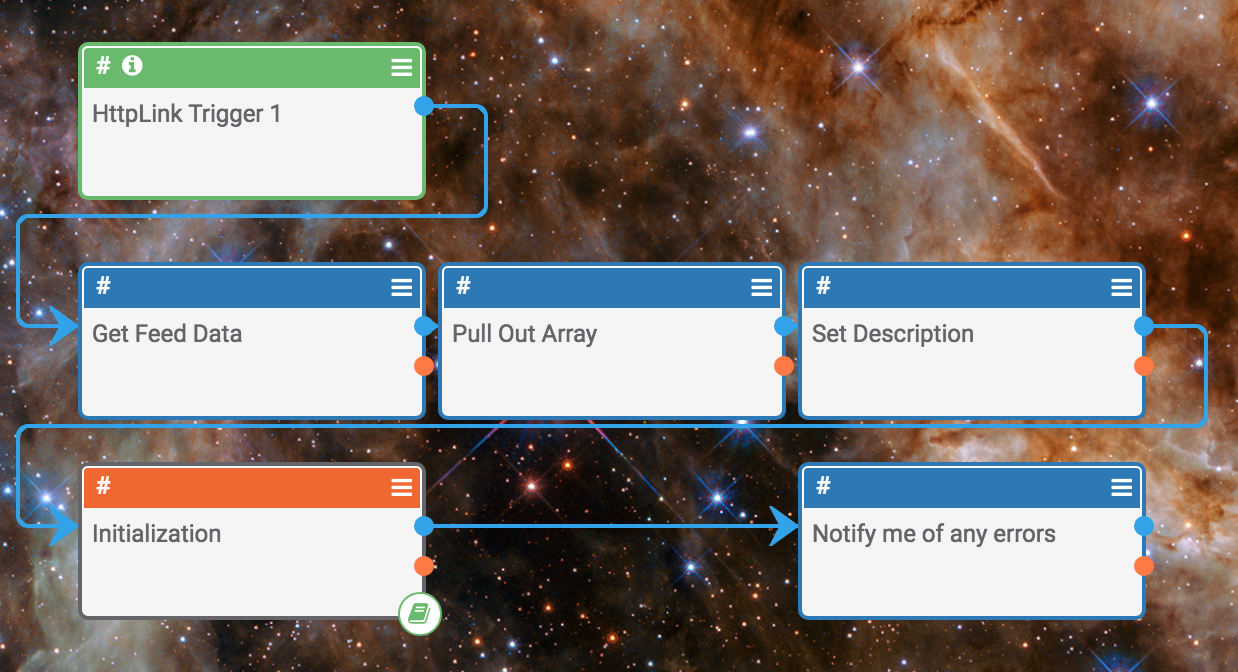
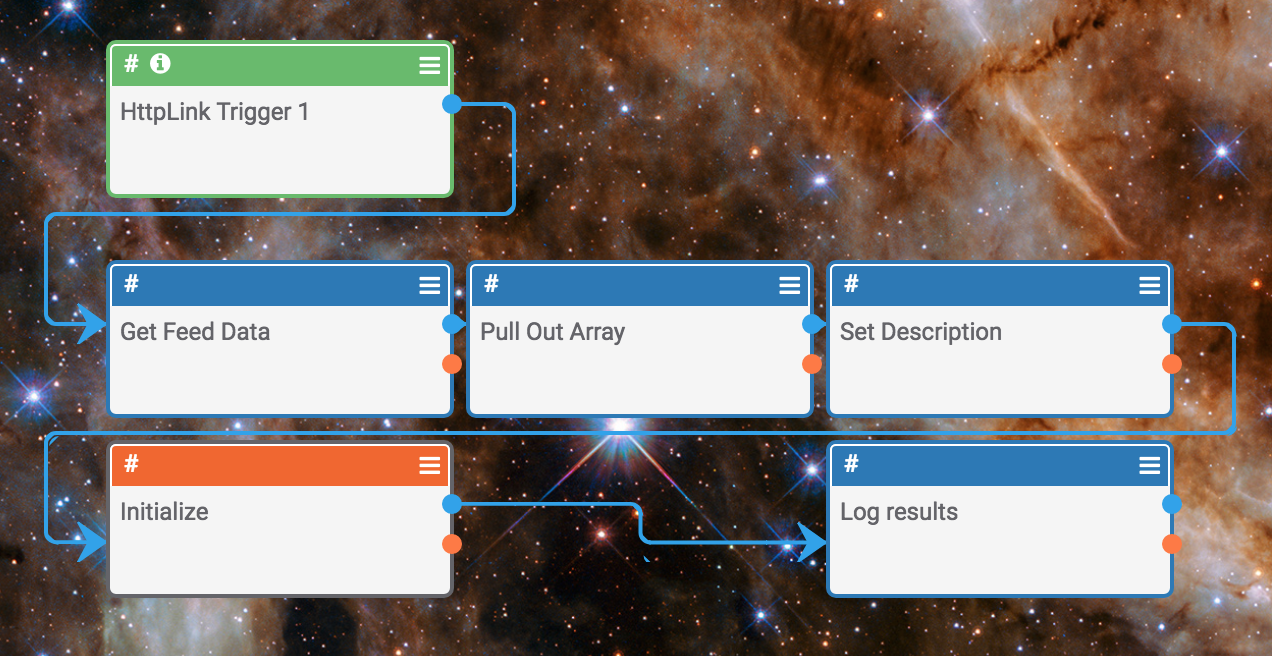
Added updated array iterator docs to summary

diff --git a/constructs/array_iterator.md b/constructs/array_iterator.md
@@ -1,6 +1,6 @@
-# List Iteration
+# Array Iteration
 
-Iterating through lists in playbooks (just like a basic iterator in programming) involves 3 main components:
+Iterating through arrays in playbooks (just like a basic iterator in programming) involves 3 main components:
 
     1. Initialization
     2. Iterator
@@ -54,7 +54,7 @@ Looking at the data feed, we see that it makes sense to iterate throught the `At
 
 Lets start with the parent playbook as such:
 
-![Example Parent Playbook for List Iteration](_images/list_iterator_parent_pb.png)
+![Example Parent Playbook for Array Iteration](_images/list_iterator_parent_pb.png)
 
 After fetching the data feed using an http client and pulling out the desired array `Attribute`, we set a description to be applied to each indicator and call the iterator initialization component like so...
 
@@ -62,10 +62,10 @@ After fetching the data feed using an http client and pulling out the desired ar
 
 The iterator initialization takes 4 input, some of which are optional:
 
-1. **Extra Data** (optional) - This field is meant to store some arbitrary data to be passed down to the action playbook. In this case it is being used to pass the description we would like to see applied to each indicator. However, this can become more useful if you are passing in json structs. More on that later...
-2. **Action PlayBook Link** - The action playbook which will be executed on each of the items in the list.
-3. **Output Data** (optional) - Any output data we would like to pre-set. This can be useful when you want to append some results over each iteration and have some initial value. Again, lets not worry about these features for now.
-4. **Input Array** - The array we would like to iterate through.
+1. **Action PlayBook Link** - The action playbook which will be executed on each of the items in the list.
+2. **Input Array** - The array we would like to iterate through.
+3. **Output Data** (optional) - Any output data we would like to pre-set. This can be useful when you want to append some results over each iteration with some initial value. Again, lets not worry about these features for now.
+4. **Extra Data** (optional) - This field is meant to store some arbitrary data to be passed down to the action playbook. In this case it is being used to pass the description we would like to see applied to each indicator. However, this can become more useful if you are passing in json structs. Again, more on that later.
 
 So far so good. Lets take a look at the action playbook doing the real work...
 
@@ -73,17 +73,19 @@ So far so good. Lets take a look at the action playbook doing the real work...
 
 Nothing too complicated going on here but just make note of the things we are pulling out of the http link trigger:
 
-- (_header_) **extra_data:** The indicator description in our case
-- (_header_) **ds_id:** A unique DataStore ID that is required to be passed down to the iterator component (generated by initialization)
-- (_body_) **item:** The current item in the list that the iterator has pointed us to
+- (_header_) **componentDatastoreID:** A unique DataStore ID that is required to be passed down to the iterator component (generated by initialization)
+- (_body_) **item:** The current item in the array that the iterator has pointed us to
 
-We are simply pulling out the _type_ and _value_ out of the json item passed in and creating the appropriate indicators. If there is an error we use the break component to exit the loop, otherwise, the iterator component continues looping through the list.
+The **Get Data** component allows us to access data from the iterator's datastore (in this case we are using it to retrieve the **Extra Data** which is the description we set in the first playbook). All this component needs is the _componentDatastoreID_ that we pulled out of the link header.
 
-The configuration for the iterator component is quiet simple:
+After creating the appropriate data types in ThreatConnect we either keep iterating, or 'break' out of the iteration on a failure.
+
+
+The configuration for the iterator component is quite simple:
 
 ![Iterate Config](_images/list_iterator_iterator_config.png)
 
-We simply pass through the *ds_id* variable extracted from the header of the http link trigger and the output/extra data. Since we are using the same description for each indicator, we pass the extra data as is. We also set the output to a simple success message. The output is eventually returned to the parent playbook.
+We simply pass through the _componentDatastoreID_ variable and the output/extra data if we so choose. Since we are using the same description for each indicator, we pass through extra data as is. We also set the output to a simple success message. The output is eventually returned to the parent playbook.
 
 If something goes wrong, say an indicator fails to create for whatever reason, we wish to break out of the loop and set the result to an informative error message.
 
@@ -91,8 +93,9 @@ For this we have the break component configured as such:
 
 ![Break Config](_images/list_iterator_break_config.png)
  
-Again, pass through the *ds_id* as required by the iterator system and set an error message as the result to be passed back to the parent playbook.
+Again, pass through the _componentDatastoreID_ variable as required by the iterator system and set the output to an error message, which is relayed by the parent pb.
 
-When we run this playbook, all indicators are created until one of them fails (due to being part of the system-wide exclusion list) as such:
+When we run this playbook, all indicators are created until one of them fails, causing execution to return to the parent playbook where the logger spits out the following as expected.
 
-![Final Log](_images/list_iterator_log.png)
+`"There was a problem creating link  :
+http://blog.trendmicro.com/trendlabs-security-intelligence/update-pawn-storm-new-targets-politically-motivated-campaigns/"`

diff --git a/SUMMARY.md b/SUMMARY.md
@@ -25,6 +25,7 @@ Floyd Hightower
     * [JSON Path Filtering](constructs/json_filtering.md)
     * [JSON-to-Join: Converting String Array to String](constructs/json_to_join.md)
     * [Making a Playbook Fail](constructs/pb_fail.md)
+    * [Array Iteration](constructs/array_iterator.md)
     * [Making HTTP Requests and Visually Selecting JSON Paths](constructs/http_request_json.md)
     * [Merge Operator](constructs/merge.md)
     * [Retrieving the Value of a Custom Metric](constructs/get_metric_value.md)
